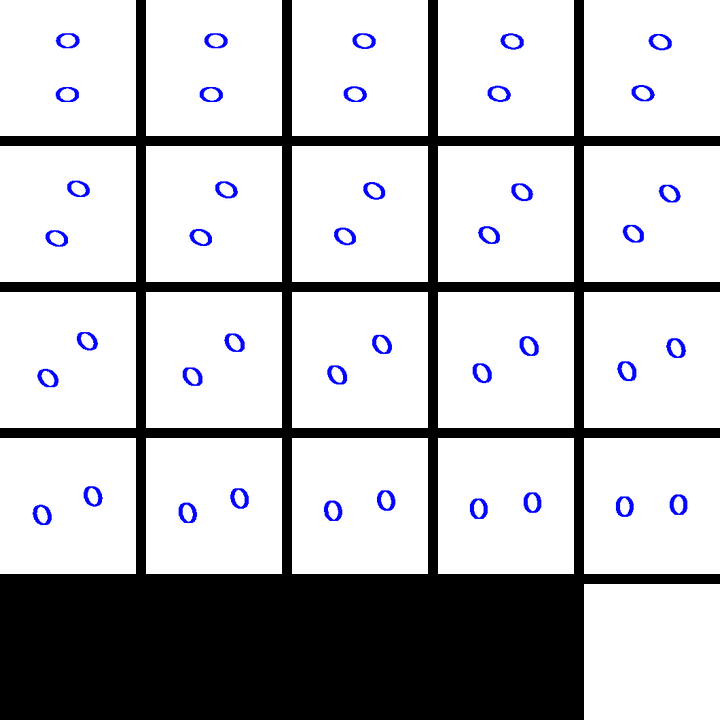
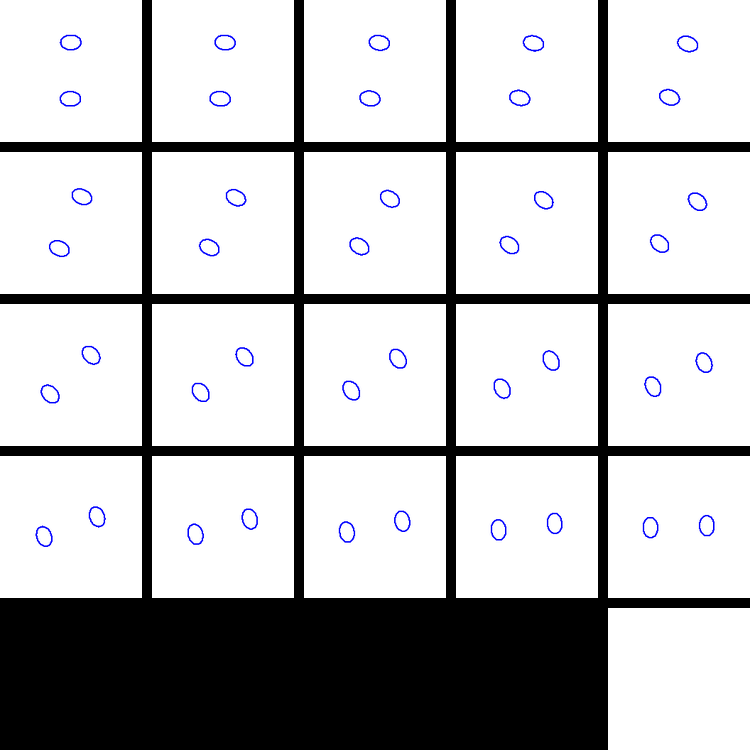
jasdfjasjdf

diff --git a/le_slice/outline.py b/le_slice/outline.py
@@ -3,17 +3,13 @@ import os
 
 def create_outline(input_dir, in_name, out_name):
     # PIL accesses images in Cartesian co-ordinates, so it is Image[columns, rows]
-<<<<<<< HEAD
     img = Image.open("%s/%s" % (input_dir, in_name))
-=======
-    img = Image.open(in_name) 
->>>>>>> master
     pixels = img.load() # create the pixel map
 
     new_img = Image.new('RGB', img.size, 'white')
     new_img_pixels = new_img.load()
 
-    thresh = 50
+    #thresh = 50
     white = (255,255,255)
 
     def is_white(pixel):
@@ -23,30 +19,21 @@ def create_outline(input_dir, in_name, out_name):
         for j in range(3, img.size[1] - 3):    # For every row
             #print(pixels[i,j])
             if not is_white(pixels[i,j]) and (is_white(pixels[i-1,j]) or is_white(pixels[i+1,j]) or is_white(pixels[i,j-1]) or is_white(pixels[i,j+1])):
-<<<<<<< HEAD
-                for l in range(i-5, i+5):
-                    for m in range(j-3, j+3):
-                        new_img_pixels[l,m] = (0, 0, 255)#pixels[l,m]
-=======
-                for l in range(i-3, i+3):
+                for l in range(i-1, i+1):
                     for m in range(j-1, j+1):
-                        new_img_pixels[l,m] = (0,0,255)#pixels[l,m]
->>>>>>> master
+                        new_img_pixels[l,m] = (0, 0, 255)#pixels[l,m]
     
-    new_img.save(out_name)
+    ratio = 0.5
+    img_small = new_img.resize((int(img.size[0] * ratio), int(img.size[1] * ratio)), resample=0)
+    canvas = Image.new('RGB', img.size, 'white')
+    canvas.paste(img_small, ((img.size[0] - img_small.size[0]) / 2, (img.size[1] - img_small.size[1]) / 2))
+
+    canvas.save(out_name)
 
 def main():
-<<<<<<< HEAD
-    input_dir = "/home/luke/Documents/prisvg/miralens/donut_small"
+    input_dir = "C:\\Users\\miralens\\Documents\\miralens\\donut_double\\"
+    output_dir = "C:\\Users\\miralens\\Documents\\miralens\\leout\\"
     for filename in os.listdir(input_dir):
-        create_outline(input_dir, filename, "/home/luke/Documents/prisvg/miralens/round1/%s" % filename)
+        create_outline(input_dir, filename, "%s%s" % (output_dir, filename))
 
 main()
-=======
-    input_dir = "/home/luke/Documents/prisvg/miralens/donut_double"
-    for filename in os.listdir(input_dir):
-        create_outline(input_dir + "/" + filename, "/home/luke/Documents/prisvg/miralens/round2/%s" % filename)
-
-
-main()
->>>>>>> master

diff --git a/Arduino/MiraGame/NewGameGL.py b/Arduino/MiraGame/NewGameGL.py
@@ -90,7 +90,7 @@ class Monitor:
         return int(math.floor(square_size*px_per_mm))
 
 
-monitor = Monitor(1080, 1920, 13.12, 23.43)
+monitor = Monitor(1130, 1930, 13.12, 23.43)
 image_size = monitor.mm_to_px(42)
 image_spacing = monitor.mm_to_px(3.175)
 rows = 4
@@ -98,7 +98,7 @@ cols = 5
 window_width = (cols+1)*image_spacing+cols*image_size
 # extra row for fps display and sync sensor
 window_height = (rows+3)*image_spacing+(rows+2)*image_size
-make_grid(rows, cols, image_size, image_size, image_spacing, "C://Users//miralens//Documents//miralens//round2")
+make_grid(rows, cols, image_size, image_size, image_spacing, "C://Users//miralens//Documents//miralens//leout")
 frames_dir = "C://Users//miralens//Documents//miralens//frames3"
 imgs = []
 for file in os.listdir(frames_dir):
